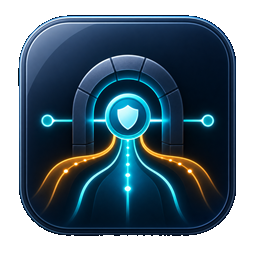
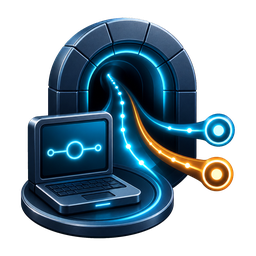
Refine frp config preview layout

diff --git a/src/styles/remote-desktop/_frp-manager.scss b/src/styles/remote-desktop/_frp-manager.scss
@@ -248,10 +248,19 @@
   font-size: 12px;
 }
 
-.frp-config-preview,
+.frp-config-preview {
+  min-height: 220px;
+  flex: 0 0 260px;
+  overflow: auto;
+}
+
 .frp-log-viewer {
   min-height: 0;
   flex: 1 1 auto;
+}
+
+.frp-config-preview,
+.frp-log-viewer {
   border: 1px solid var(--frp-border);
   border-radius: 8px;
   padding: 10px;

diff --git a/src/styles/remote-desktop/_frps-manager.scss b/src/styles/remote-desktop/_frps-manager.scss
@@ -249,10 +249,19 @@
   font-size: 12px;
 }
 
-.frps-config-preview,
+.frps-config-preview {
+  min-height: 220px;
+  flex: 0 0 260px;
+  overflow: auto;
+}
+
 .frps-log-viewer {
   min-height: 0;
   flex: 1 1 auto;
+}
+
+.frps-config-preview,
+.frps-log-viewer {
   border: 1px solid var(--frps-border);
   border-radius: 8px;
   padding: 10px;